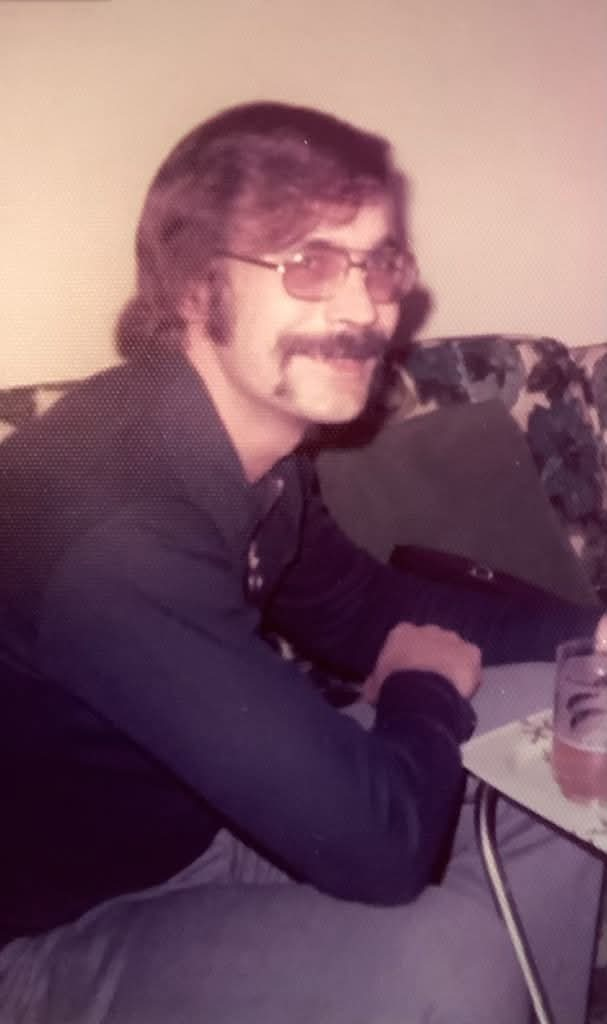
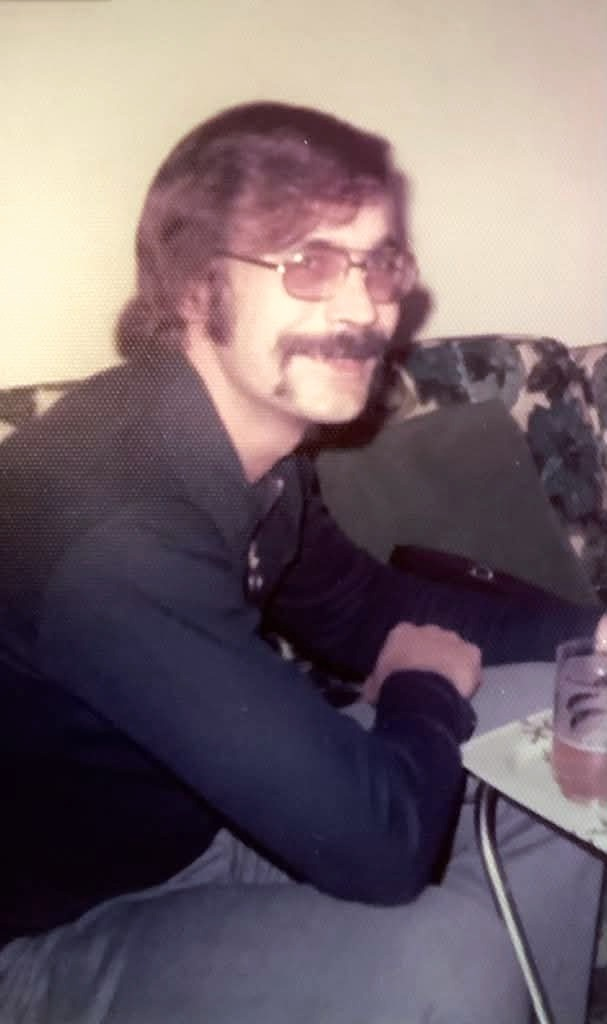
Photos P009, P010: gentle color correction; P009 inside-cover print file (2 x 3.5 in) and layout mock-up
Claude-Session: https://claude.ai/code/session_01FWET7Gz7QSAwTmssdBAYWg

diff --git a/site/templates/index.html b/site/templates/index.html
@@ -106,7 +106,7 @@
             <li><span class="when">Liberation</span><span class="what">Photographed beneath a sign reading “WELLCOME TO OUR LIBERATORS”; place and date unknown.<a class="journey-photo" href="{{ROOT}}static/photos/P007-grandpa-liberators.jpg"><img src="{{ROOT}}static/photos/P007-grandpa-liberators.jpg" width="1140" height="1890" loading="lazy" alt="Worn black-and-white photograph of Grandpa as a young soldier in khaki, standing against a wall beneath a hand-lettered sign reading WELLCOME TO OUR LIBERATORS."></a><span class="journey-photo-note">Lightly touched up (tones evened, paper texture softened); nothing added or removed. <a href="{{ROOT}}static/photos/P007-grandpa-liberators-original.jpg">Original</a>.</span></span><span class="from">Photograph · family</span></li>
             <li><span class="when">30 Apr 1945</span><span class="what">Dachau, the day after the camp was liberated. The family remembers that Grandpa liberated Dachau, and he wanted that history shared. <a href="{{ROOT}}letters/004/notes/#photographs">His photographs</a> (content warning).</span><span class="from">Dated photograph · family</span></li>
             <li><span class="when">Medals</span><span class="what">European-African-Middle Eastern Campaign Medal with an arrowhead (an assault landing) and campaign stars, World War II Victory Medal, Army of Occupation Medal (Germany), Good Conduct Medal.</span><span class="from">Family medal case</span></li>
-            <li><span class="when">1976</span><span class="what">Home in Milwaukee: Dad and his friend Ronnie receive citizen awards of merit from the Milwaukee Police Department. As the family tells it, they caught two men stealing gas from Dad’s car and “detained” them until the police came. Mom (Laura) and Bonnie, Ronnie’s wife, accepted the awards for them, because Dad and Ronnie were “committed to their jobs and paying the bills.”<a class="journey-photo" href="{{ROOT}}static/photos/P008-citizen-award-1976.jpg"><img src="{{ROOT}}static/photos/P008-citizen-award-1976.jpg" width="789" height="1138" loading="lazy" alt="Yellowed newspaper clipping headlined 20 Honored for Aiding Police Work, dated 1976 by hand in the margin. It names Ronald C. Gorsche, 34, and Thomas P. Jafuta, 28, who helped capture two thieves."></a><span class="journey-photo-note">Newspaper clipping kept by the family; excerpt (the rest lists other award recipients). Newspaper not named on the clipping.</span><a class="journey-photo" href="{{ROOT}}static/photos/P010-award-presentation-1976.jpg"><img src="{{ROOT}}static/photos/P010-award-presentation-1976.jpg" width="1400" height="1148" loading="lazy" alt="Sepia photograph: a white-haired man in a dark suit, seen from behind, reads from a sheet of paper to two women in fur-trimmed winter coats, each holding a framed award, while people sit watching in the foreground."></a><span class="journey-photo-note">The awards being presented. Original family photograph; shown as supplied.</span></span><span class="from">Newspaper clipping · photograph · family</span></li>
+            <li><span class="when">1976</span><span class="what">Home in Milwaukee: Dad and his friend Ronnie receive citizen awards of merit from the Milwaukee Police Department. As the family tells it, they caught two men stealing gas from Dad’s car and “detained” them until the police came. Mom (Laura) and Bonnie, Ronnie’s wife, accepted the awards for them, because Dad and Ronnie were “committed to their jobs and paying the bills.”<a class="journey-photo" href="{{ROOT}}static/photos/P008-citizen-award-1976.jpg"><img src="{{ROOT}}static/photos/P008-citizen-award-1976.jpg" width="789" height="1138" loading="lazy" alt="Yellowed newspaper clipping headlined 20 Honored for Aiding Police Work, dated 1976 by hand in the margin. It names Ronald C. Gorsche, 34, and Thomas P. Jafuta, 28, who helped capture two thieves."></a><span class="journey-photo-note">Newspaper clipping kept by the family; excerpt (the rest lists other award recipients). Newspaper not named on the clipping.</span><a class="journey-photo" href="{{ROOT}}static/photos/P010-award-presentation-1976.jpg"><img src="{{ROOT}}static/photos/P010-award-presentation-1976.jpg" width="1400" height="1148" loading="lazy" alt="Sepia photograph: a white-haired man in a dark suit, seen from behind, reads from a sheet of paper to two women in fur-trimmed winter coats, each holding a framed award, while people sit watching in the foreground."></a><span class="journey-photo-note">The awards being presented. Original family photograph; tones gently evened, nothing added or removed. <a href="{{ROOT}}static/photos/P010-award-presentation-1976-original.jpg">Original</a>.</span></span><span class="from">Newspaper clipping · photograph · family</span></li>
           </ol>
         </article>
         <article class="gen-card" aria-labelledby="gen-dad">

diff --git a/book/README.md b/book/README.md
@@ -4,7 +4,7 @@ The book is assembled from verified letters only, arranged by the date each lett
 
 Planned structure (from the project brief):
 
-- **Front matter:** cover and title page; inside front cover: photo P009 of Dad, chosen by Andy (`book/images/P009-dad-inside-front-cover.jpg`; a larger scan of the print is needed for full-page printing); dedication; family introduction; editor's note on the archive and transcription method; historical overview; map and timeline.
+- **Front matter:** cover and title page; inside front cover: photo P009 of Dad, chosen by Andy, printed 2 × 3½ in (`book/images/P009-dad-print-2x3.5in-300dpi.jpg`; layout mock-up `book/images/inside-front-cover-preview.png`); dedication; family introduction; editor's note on the archive and transcription method; historical overview; map and timeline.
 - **Main content:** one chapter section per letter, in date order, with occasional interludes on military life, friendship, homesickness, family and hopes for the future.
 - **Closing sections:** epilogue; reflections; glossary; timeline; people and places index; sources; transcription method and correction history; acknowledgments; an invitation to readers to preserve their own family letters.
 
